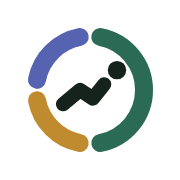
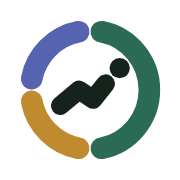
Ikona ekranu początkowego identyczna z faviconem (bez zaokrąglenia, iOS zaokrągla sam); test równości plików

Changed region(s): [[0.1111, 0.1111, 0.8889, 0.8889]]

diff --git a/tests/smoke.js b/tests/smoke.js
@@ -245,5 +245,6 @@ tryc('ikona i favicon: kolory logo na białym kafelku', () => ['miara-ikona.svg'
 tryc('favicon: zaokrąglony kafel i grubsza kreska niż ikona', () => /<rect[^>]*rx="22"/.test(brandSvg('miara-favicon.svg')) && /stroke-width="12"/.test(brandSvg('miara-favicon.svg')));
 tryc('ikony z wersją omijają pamięć podręczną (brand/ i icons/ mają max-age 7 dni)', () => /<link rel="icon" href="brand\/miara-favicon\.svg\?v=2"/.test(html) && /<link rel="apple-touch-icon" href="icons\/apple-touch-icon\.png\?v=2"/.test(html) && (fs.readFileSync(path.join(root, 'manifest.webmanifest'), 'utf8').match(/\.png\?v=2"/g) || []).length === 3);
 
+tryc('ikona ekranu początkowego = favicon bez zaokrąglenia (iOS sam zaokrągla rogi)', () => brandSvg('miara-ikona.svg') === brandSvg('miara-favicon.svg').replace(' rx="22"', ''));
 console.log(`WYNIK: ${ok} OK, ${bad} BLAD`);
 process.exit(bad ? 1 : 0);

diff --git a/tools/make_logo.py b/tools/make_logo.py
@@ -63,7 +63,7 @@ files = {
     "miara-logo.svg": svg("0 0 370 100", mark((GREEN, AMBER, BLUE), INK) + word(INK), "Miara"),
     "miara-logo-ciemne.svg": svg("0 0 370 100", mark(("#62B597", "#E2AE55", "#93A0EE"), INK_DARK) + word(INK_DARK), "Miara", BG_DARK),
     "miara-znak.svg": svg("0 0 100 100", mark((GREEN, AMBER, BLUE), INK), "Miara"),
-    "miara-ikona.svg": svg("0 0 100 100", mark((GREEN, AMBER, BLUE), INK, r=30), "Miara", ICON_BG),
+    "miara-ikona.svg": svg("0 0 100 100", mark((GREEN, AMBER, BLUE), INK, r=33, sw=FAV_SW), "Miara", ICON_BG, sw=FAV_SW),  # = favicon bez zaokrąglenia
 }
 for name, content in files.items():
     (OUT / name).write_text(content, encoding="utf-8", newline="\n")  # LF także na Windows
